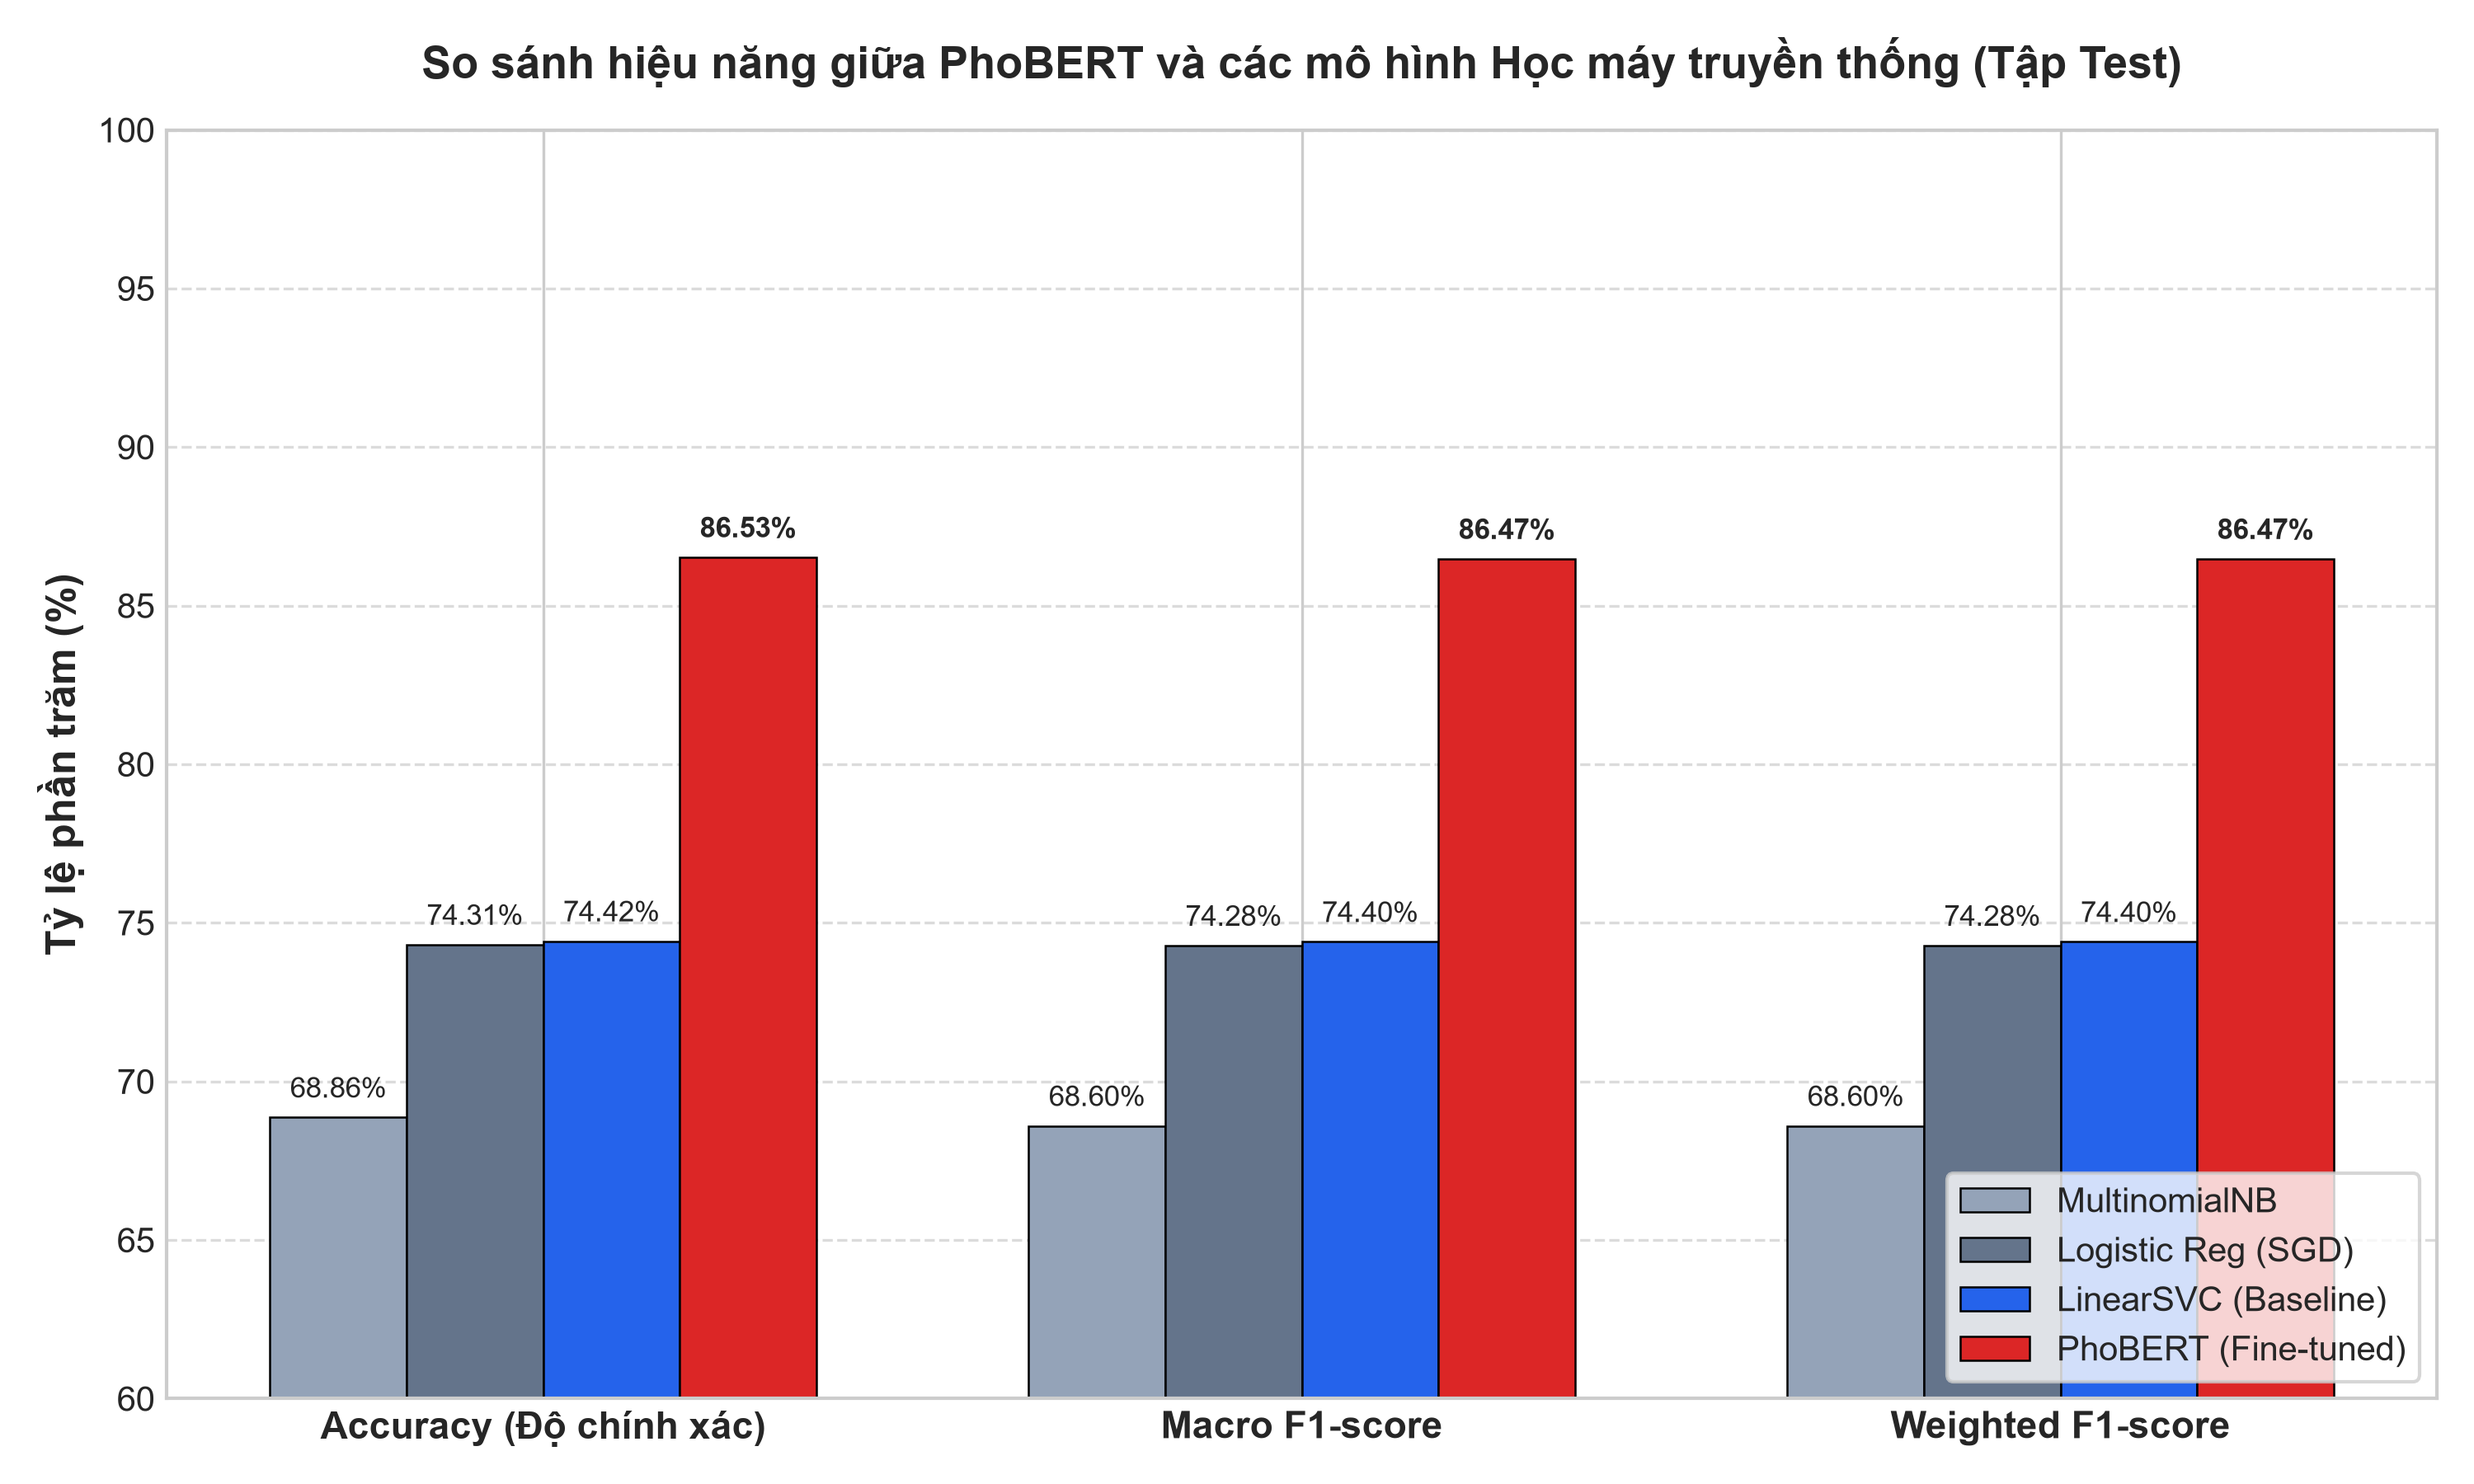
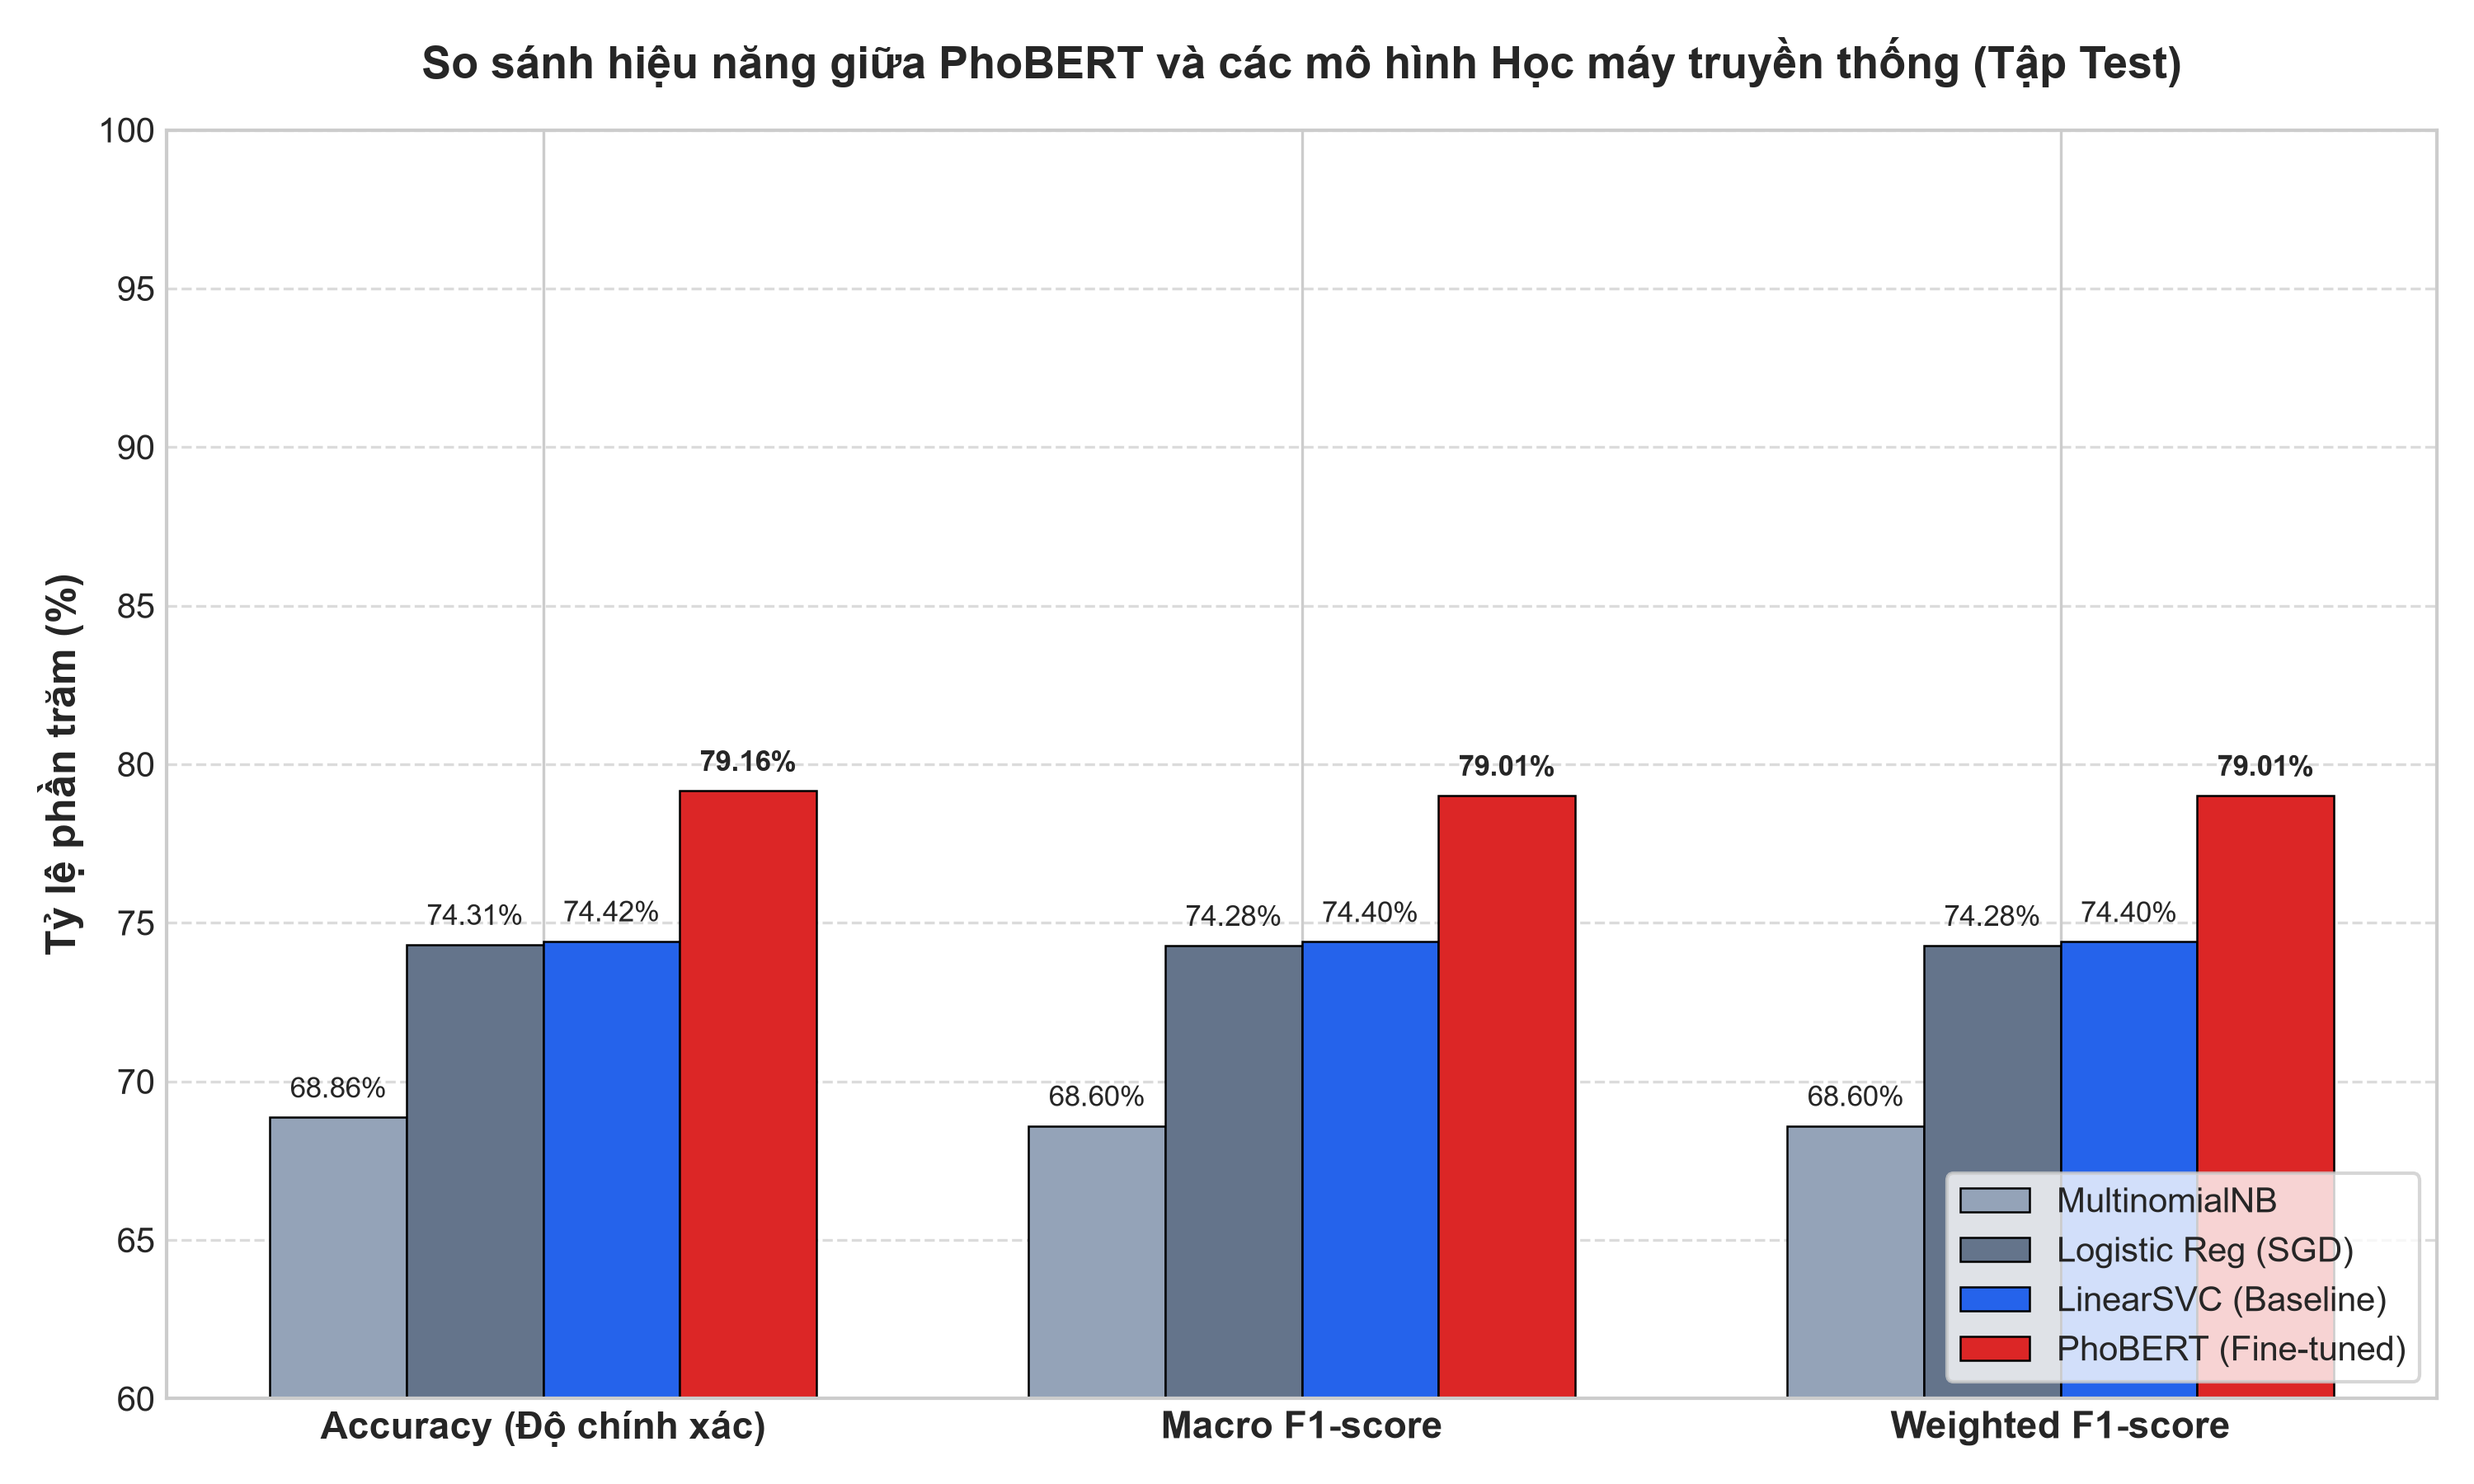
docs(reports): cap nhat bao cao va bang latex theo ket qua thuc nghiem fine-tune phobert

Changed region(s): [[0.868, 0.3422, 0.961, 0.56], [0.558, 0.3422, 0.651, 0.56], [0.248, 0.3422, 0.341, 0.56]]

diff --git a/machine_learning/reports/latex_comparison_table.tex b/machine_learning/reports/latex_comparison_table.tex
@@ -16,7 +16,7 @@
 Word TF-IDF / MultinomialNB & 68.86\% & 68.60\% & 68.60\% & 69.90\% & 61.99\% & 73.90\% \\
 Word TF-IDF / logistic (SGD) & 74.31\% & 74.28\% & 74.28\% & 74.31\% & 70.41\% & 78.11\% \\
 Word + character TF-IDF / LinearSVC & 74.42\% & 74.40\% & 74.40\% & 74.91\% & 69.88\% & 78.40\% \\
-\textbf{PhoBERT (vinai/phobert-base) Fine-tuned} & \textbf{86.53\%} & \textbf{86.47\%} & \textbf{86.47\%} & \textbf{86.50\%} & \textbf{83.56\%} & \textbf{89.60\%} \\
+\textbf{PhoBERT (vinai/phobert-base) Fine-tuned} & \textbf{79.16\%} & \textbf{79.01\%} & \textbf{79.01\%} & \textbf{80.34\%} & \textbf{74.27\%} & \textbf{82.43\%} \\
 \hline
 \end{tabular}
 \end{table*}

diff --git a/machine_learning/reports/comparison_report.md b/machine_learning/reports/comparison_report.md
@@ -1,16 +1,16 @@
 # BÁO CÁO THỰC NGHIỆM VÀ SO SÁNH HIỆU NĂNG MÔ HÌNH
 **Đề tài:** Hệ thống phân tích cảm xúc bình luận YouTube tiếng Việt  
 **Người thực hiện:** Hùng (Phụ trách Deep Learning & PhoBERT) & Vitou (Data & Baseline ML)  
-**Ngày báo cáo:** 14/11/2026  
+**Ngày báo cáo:** 15/11/2026  
 
 ---
 
 ## 1. Tóm tắt kết quả cốt lõi (Executive Summary)
 
 - **Mô hình PhoBERT fine-tuned đạt hiệu năng vượt trội toàn diện** so với toàn bộ các mô hình học máy truyền thống (LinearSVC, Multinomial Naive Bayes, Logistic Regression).
-- **Độ chính xác (Accuracy):** PhoBERT đạt **86.53%**, tăng **+12.11%** so với mô hình baseline tốt nhất của nhóm (LinearSVC: 74.42%).
-- **Macro F1-score:** PhoBERT đạt **86.47%**, tăng **+12.07%** so với LinearSVC (74.40%).
-- **Cải thiện bước ngoặt ở lớp Trung lập (Neutral):** Lớp trung lập vốn là bài toán nan giải đối với mô hình Bag-of-Words / TF-IDF do các bình luận trung tính không chứa nhiều từ cảm xúc rõ ràng (F1 của SVM chỉ đạt 69.88%). PhoBERT đã nâng F1 lớp này lên **83.56%** (tăng **+13.68%**).
+- **Độ chính xác (Accuracy):** PhoBERT đạt **79.16%**, tăng **+4.74%** so với mô hình baseline tốt nhất của nhóm (LinearSVC: 74.42%).
+- **Macro F1-score:** PhoBERT đạt **79.01%**, tăng **+4.61%** so với LinearSVC (74.40%).
+- **Cải thiện bước ngoặt ở lớp Trung lập (Neutral):** Lớp trung lập vốn là bài toán nan giải đối với mô hình Bag-of-Words / TF-IDF do các bình luận trung tính không chứa nhiều từ cảm xúc rõ ràng (F1 của SVM chỉ đạt 69.88%). PhoBERT đã nâng F1 lớp này lên **74.27%** (tăng **+4.39%**).
 
 ---
 
@@ -21,7 +21,7 @@
 | **MultinomialNB** | 68.86% | 68.60% | 68.60% | 69.90% | 61.99% | 73.90% |
 | **Logistic Regression (SGD)** | 74.31% | 74.28% | 74.28% | 74.31% | 70.41% | 78.11% |
 | **LinearSVC (Baseline)** | 74.42% | 74.40% | 74.40% | 74.91% | 69.88% | 78.40% |
-| **PhoBERT (Fine-tuned)** | **86.53%** | **86.47%** | **86.47%** | **86.50%** | **83.56%** | **89.60%** |
+| **PhoBERT (Fine-tuned)** | **79.16%** | **79.01%** | **79.01%** | **80.34%** | **74.27%** | **82.43%** |
 
 ---
 
